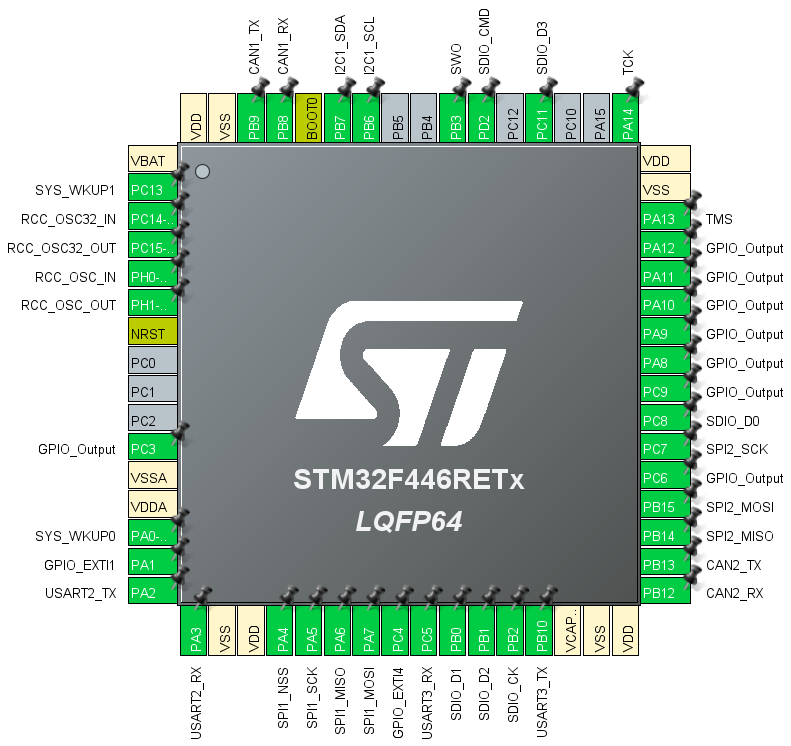
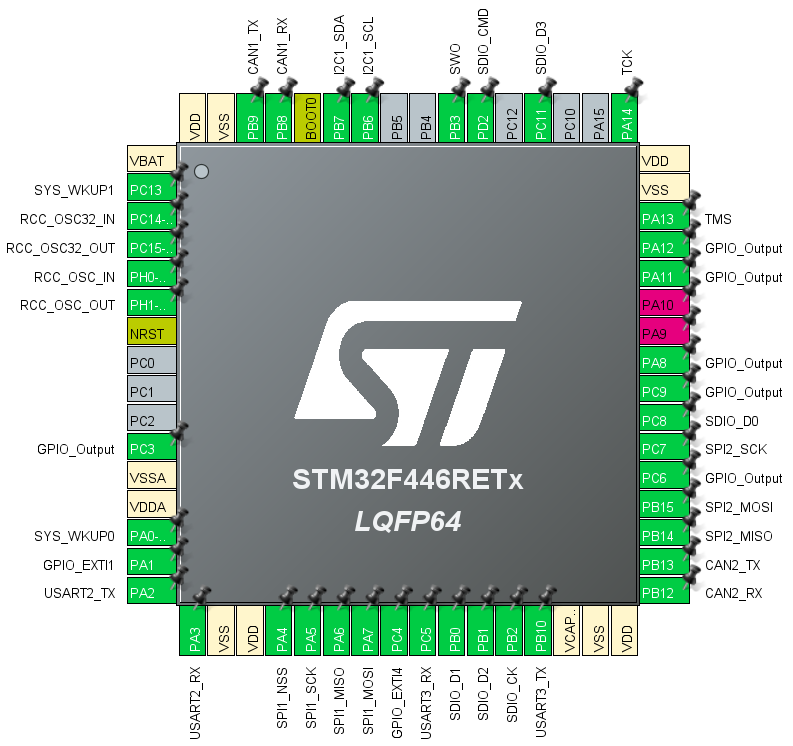
Add changes for reserved pin reorganization

diff --git a/Core/Src/main.c b/Core/Src/main.c
@@ -664,8 +664,7 @@ static void MX_GPIO_Init(void)
   HAL_GPIO_WritePin(GPIOC, GPIO_PIN_3|GPIO_PIN_6|GPIO_PIN_9, GPIO_PIN_RESET);
 
   /*Configure GPIO pin Output Level */
-  HAL_GPIO_WritePin(GPIOA, GPIO_PIN_8|GPIO_PIN_9|GPIO_PIN_10|GPIO_PIN_11
-                          |GPIO_PIN_12, GPIO_PIN_RESET);
+  HAL_GPIO_WritePin(GPIOA, GPIO_PIN_8|GPIO_PIN_11|GPIO_PIN_12, GPIO_PIN_RESET);
 
   /*Configure GPIO pins : PC3 PC6 PC9 */
   GPIO_InitStruct.Pin = GPIO_PIN_3|GPIO_PIN_6|GPIO_PIN_9;
@@ -686,10 +685,8 @@ static void MX_GPIO_Init(void)
   GPIO_InitStruct.Pull = GPIO_NOPULL;
   HAL_GPIO_Init(GPIOC, &GPIO_InitStruct);
 
-  /*Configure GPIO pins : PA8 PA9 PA10 PA11
-                           PA12 */
-  GPIO_InitStruct.Pin = GPIO_PIN_8|GPIO_PIN_9|GPIO_PIN_10|GPIO_PIN_11
-                          |GPIO_PIN_12;
+  /*Configure GPIO pins : PA8 PA11 PA12 */
+  GPIO_InitStruct.Pin = GPIO_PIN_8|GPIO_PIN_11|GPIO_PIN_12;
   GPIO_InitStruct.Mode = GPIO_MODE_OUTPUT_PP;
   GPIO_InitStruct.Pull = GPIO_NOPULL;
   GPIO_InitStruct.Speed = GPIO_SPEED_FREQ_LOW;
